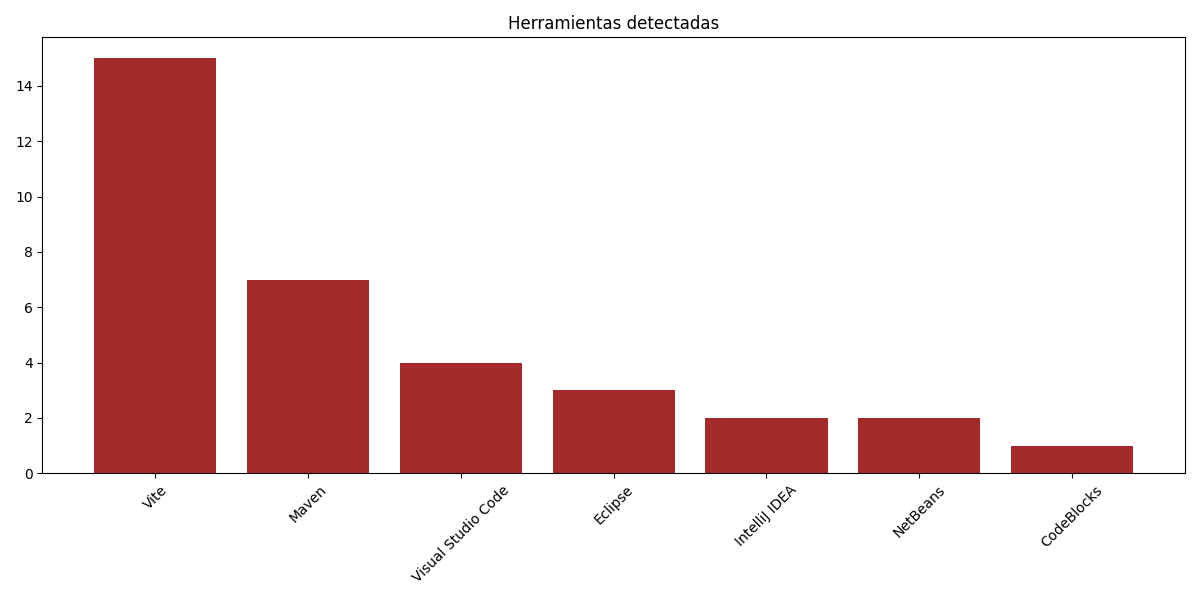
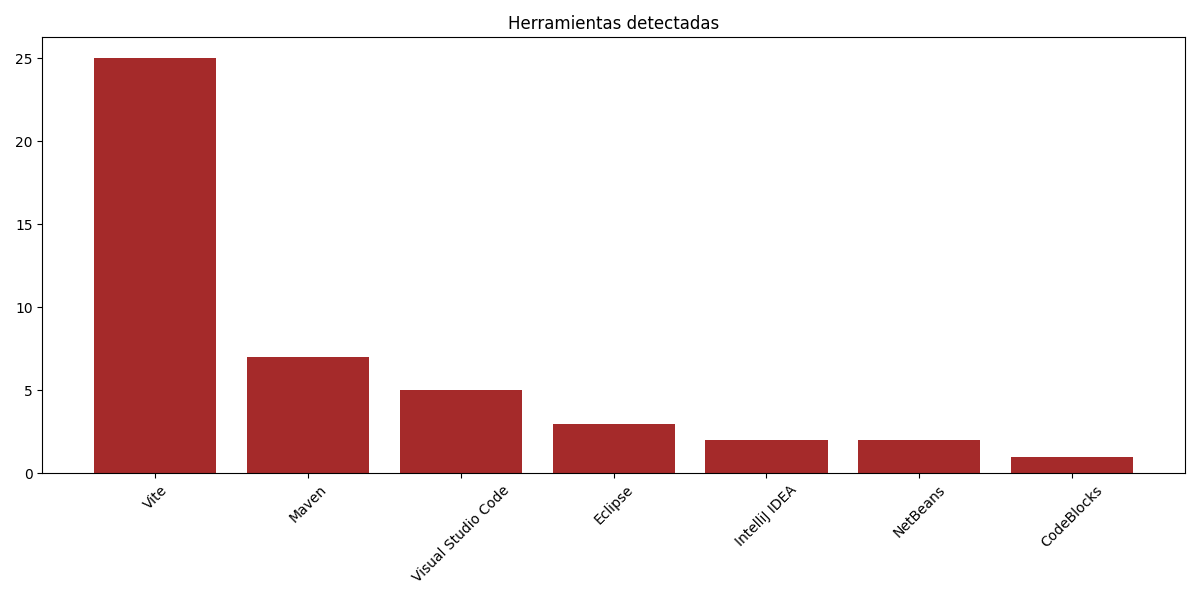
Update tools stats

diff --git a/README.md b/README.md
@@ -524,6 +524,15 @@ Tambien ultima mente le estoy agarrando el gusto a la electronica y electromecan
 <!-- AUTO-TOOLS -->
 ## Herramientas detectadas automáticamente
 
+- **Vite**: 25 repos
+- **Maven**: 7 repos
+- **Visual Studio Code**: 5 repos
+- **Eclipse**: 3 repos
+- **IntelliJ IDEA**: 2 repos
+- **NetBeans**: 2 repos
+- **CodeBlocks**: 1 repos
+## Herramientas detectadas automáticamente
+
 - **Vite**: 15 repos
 - **Maven**: 7 repos
 - **Visual Studio Code**: 4 repos

diff --git a/output/tools.md b/output/tools.md
@@ -1,8 +1,8 @@
 ## Herramientas detectadas automáticamente
 
-- **Vite**: 15 repos
+- **Vite**: 25 repos
 - **Maven**: 7 repos
-- **Visual Studio Code**: 4 repos
+- **Visual Studio Code**: 5 repos
 - **Eclipse**: 3 repos
 - **IntelliJ IDEA**: 2 repos
 - **NetBeans**: 2 repos
